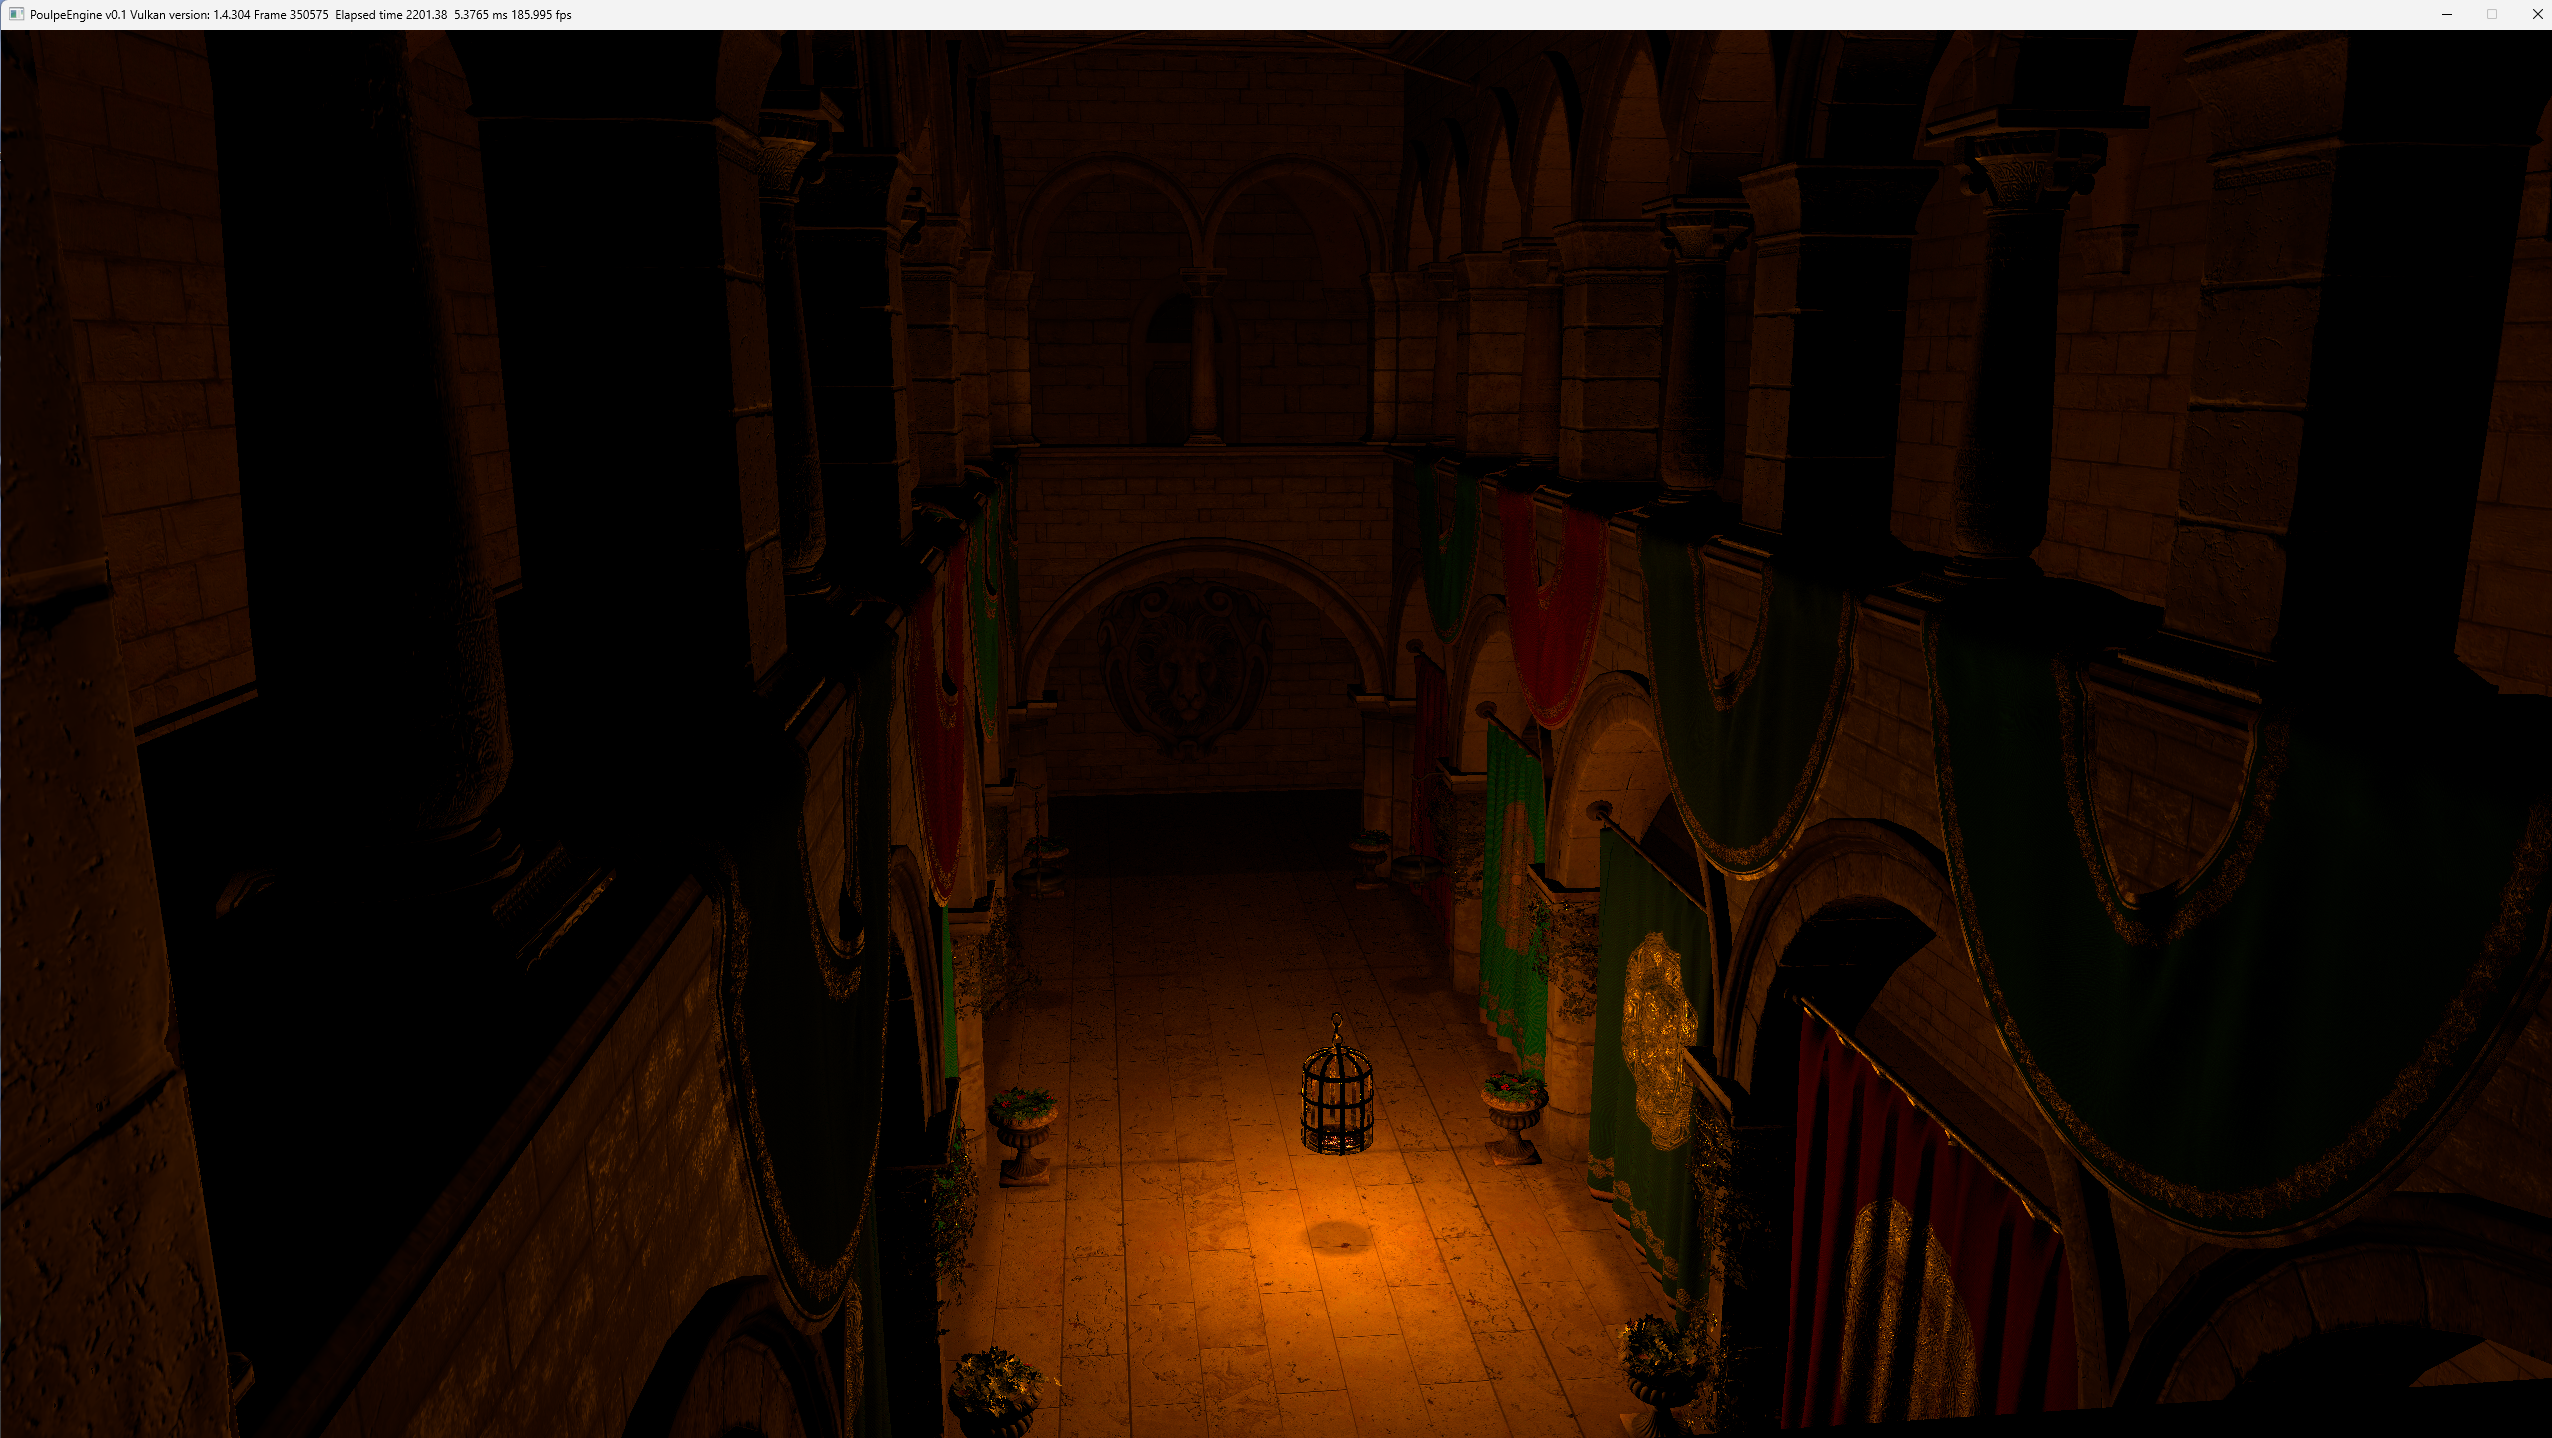
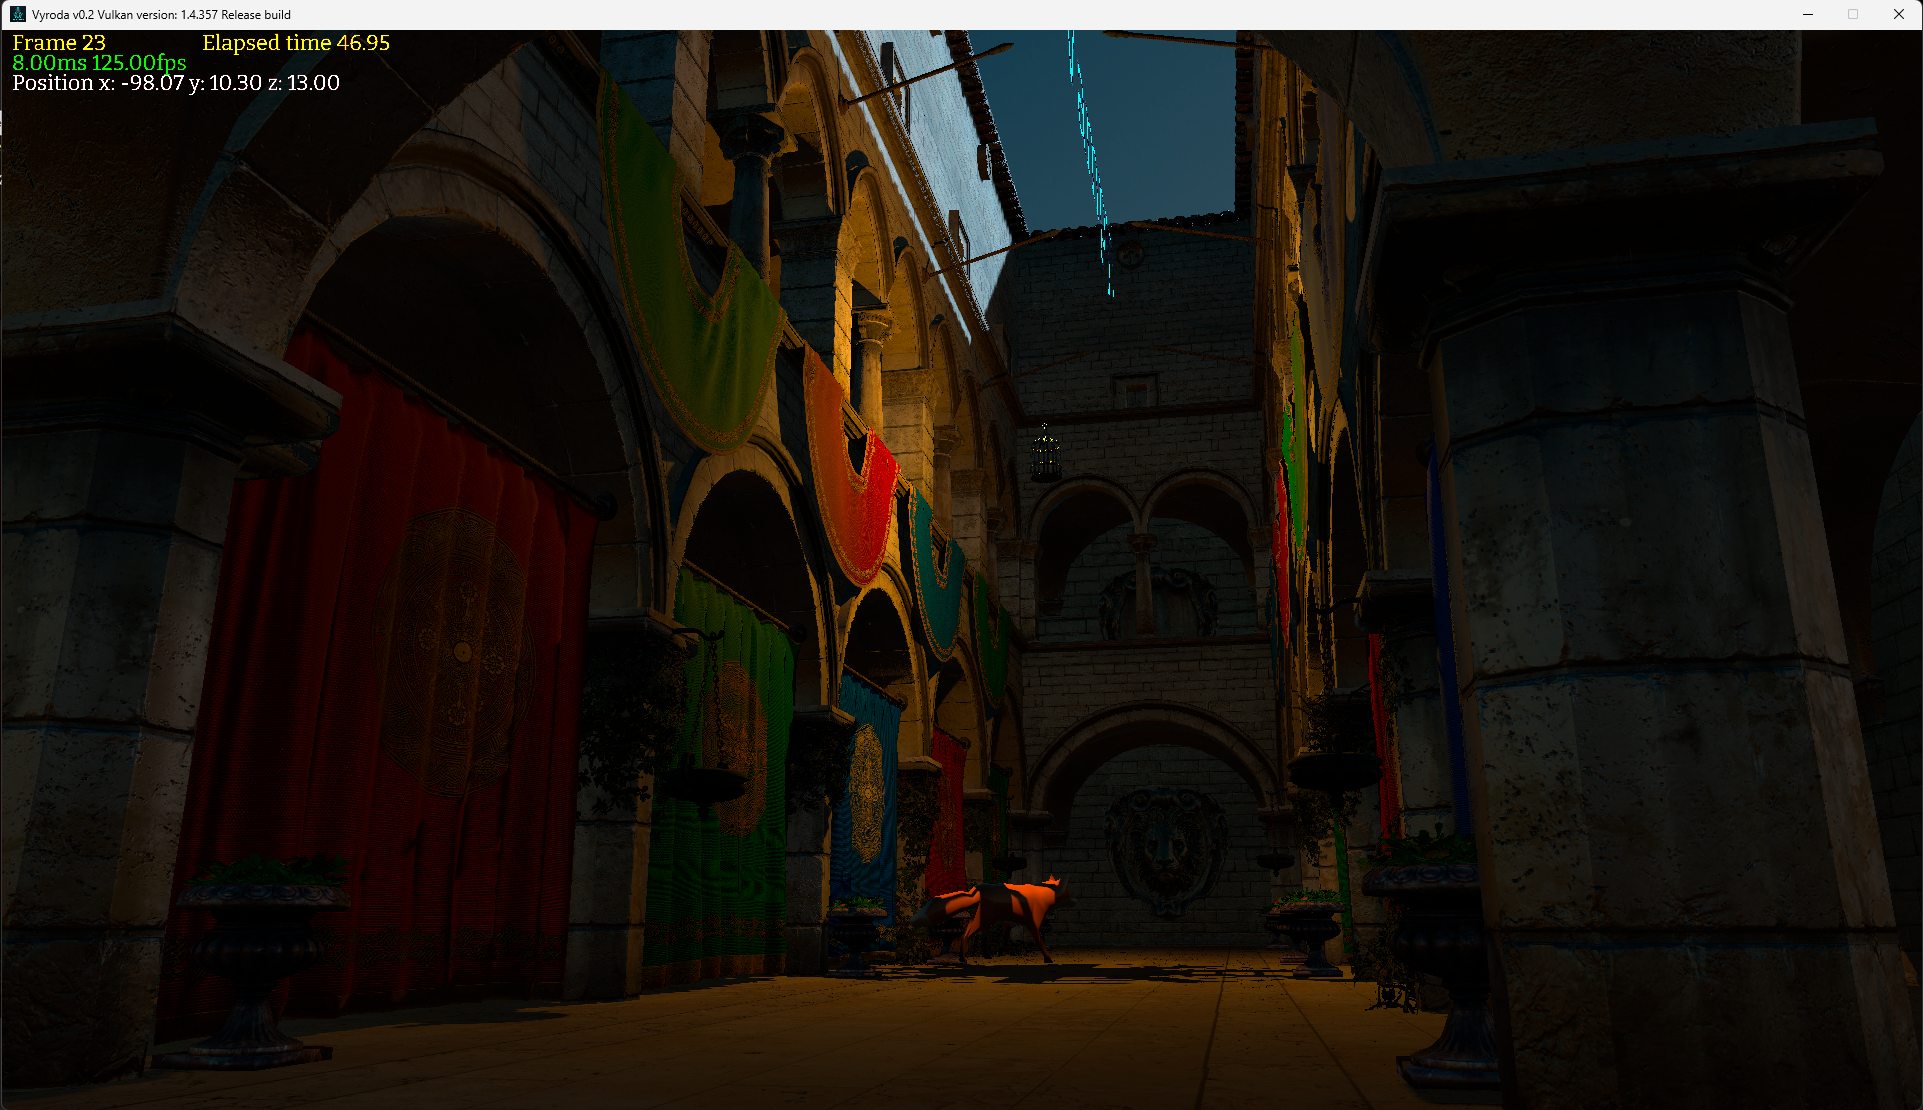
update screenshots

diff --git a/README.md b/README.md
@@ -30,7 +30,7 @@ See the engine rendering advanced glTF assets:
 
 | Basic Scene | PBR Materials Test | Rungholt |
 | :---: | :---: | :---: |
-| <img src="https://codeberg.org/Vampyropoda-Studio/vyroda-engine/raw/branch/main/screenshots/plp.png" width="400"> | <img src="https://codeberg.org/Vampyropoda-Studio/vyroda-engine/raw/branch/main/screenshots/helmet.png" width="400"> | <img src="https://codeberg.org/Vampyropoda-Studio/vyroda-engine/raw/branch/main/screenshots/rungholt.png" width="400"> |
+| <img src="https://codeberg.org/Vampyropoda-Studio/vyroda-engine/raw/branch/main/screenshots/sponza.png" width="400"> | <img src="https://codeberg.org/Vampyropoda-Studio/vyroda-engine/raw/branch/main/screenshots/helmet.png" width="400"> | <img src="https://codeberg.org/Vampyropoda-Studio/vyroda-engine/raw/branch/main/screenshots/rungholt.png" width="400"> |
 
 ---
 
